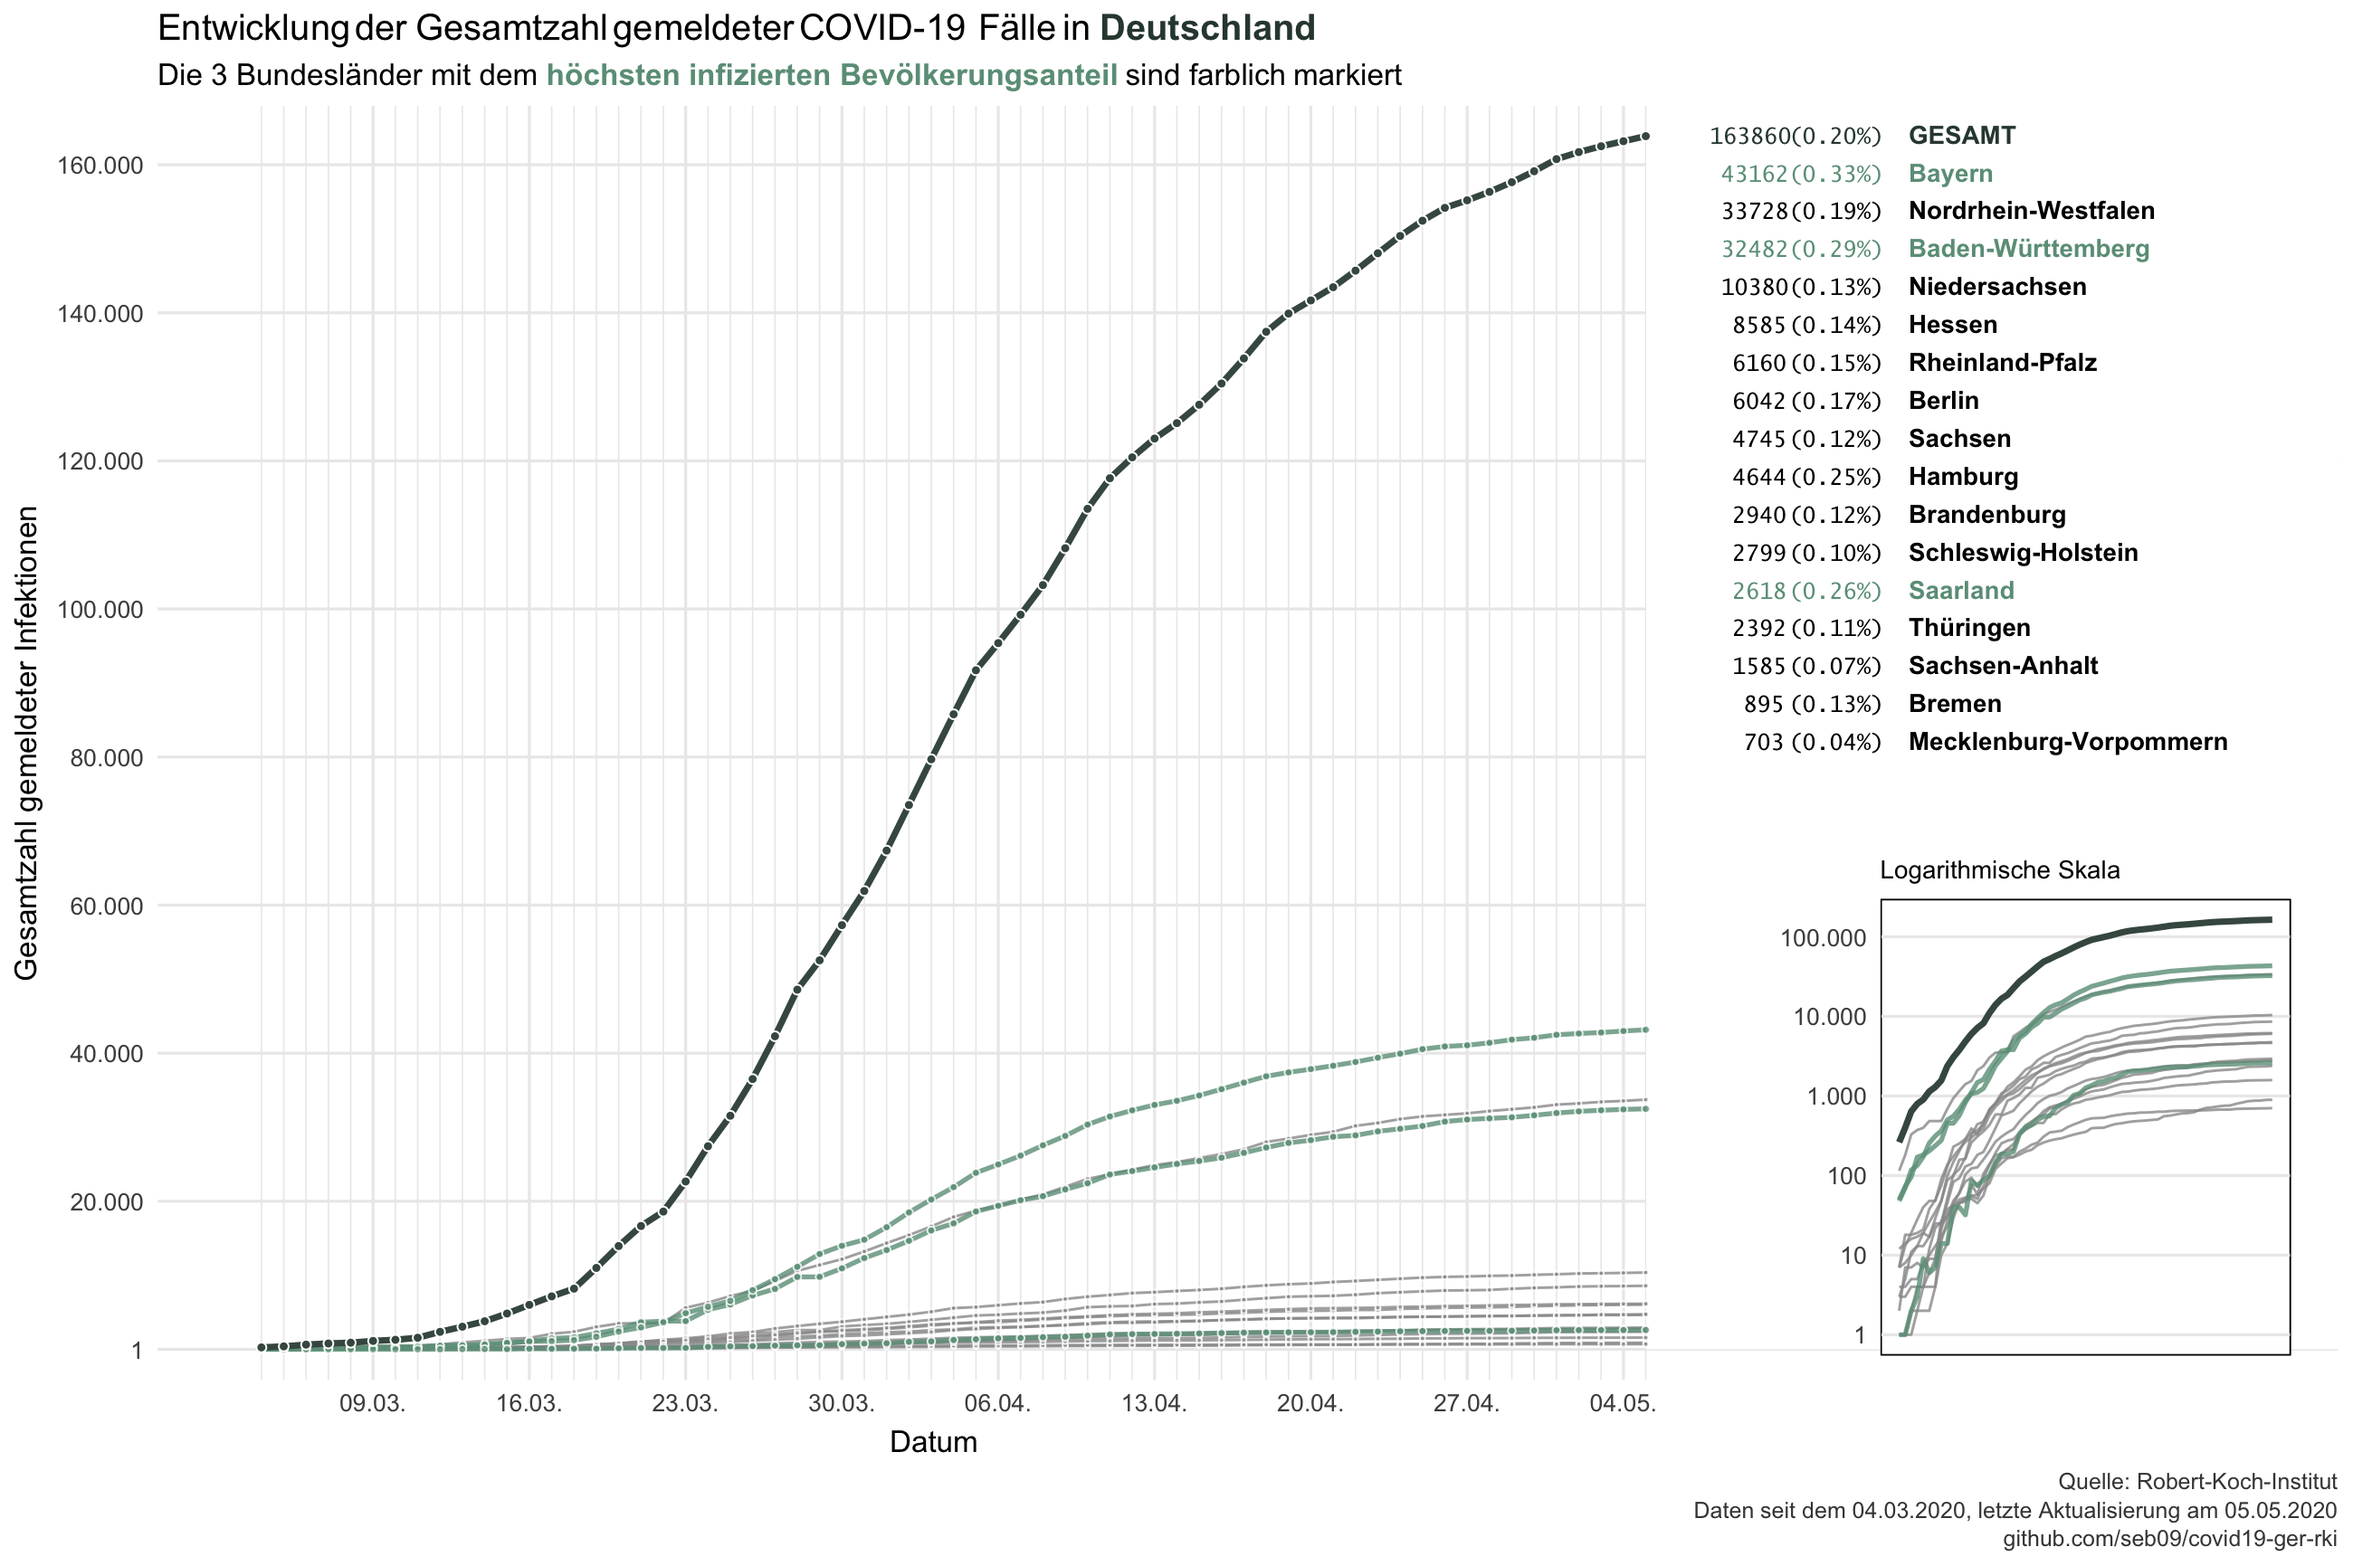
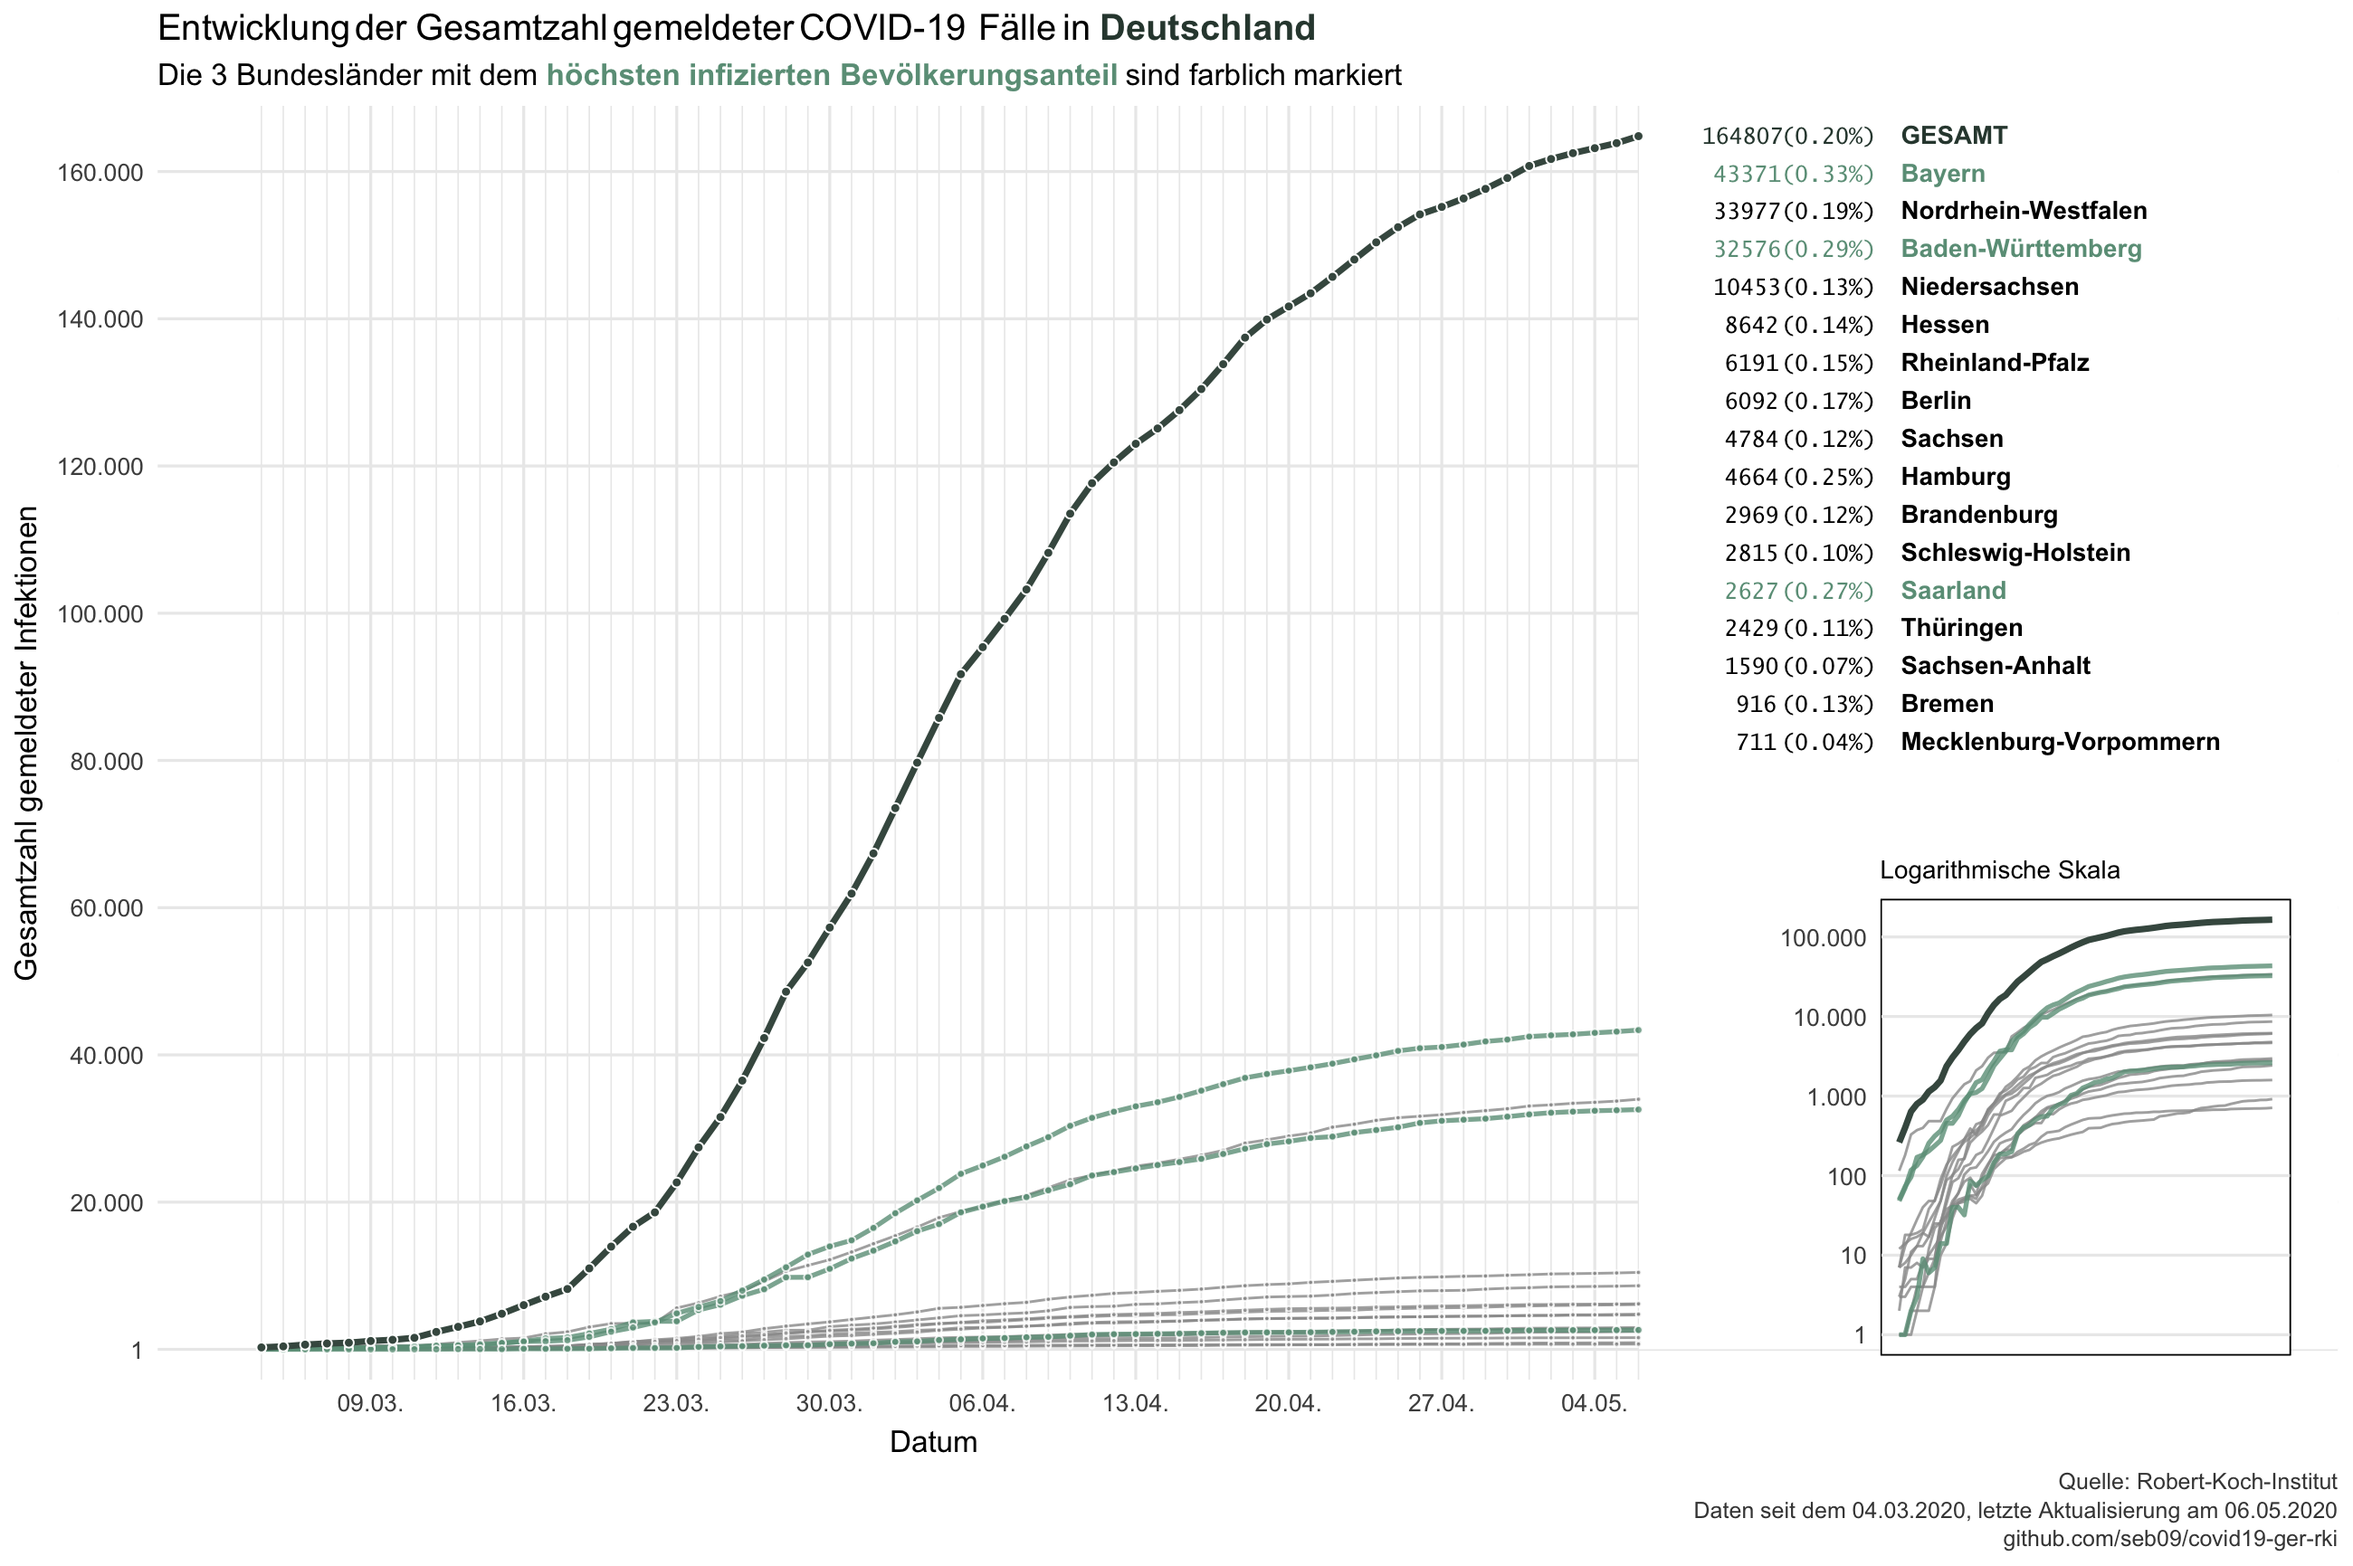
daily update 2020-05-06

diff --git a/README.md b/README.md
@@ -1,6 +1,6 @@
 Data from the Robert-Koch-Institut on COVID-19 in Germany
 ================
-Last update: 2020-05-05
+Last update: 2020-05-06
 
 This repository contains data on reported COVID-19 cases in Germany and
 its federal states that is published daily by the Robert-Koch-Institut
@@ -14,26 +14,26 @@ corona_rki %>%
   print(n = 16)
 ```
 
-    ## # A tibble: 1,002 x 6
+    ## # A tibble: 1,018 x 6
     ##    Datum      Bundesland      Fallzahl Todeszahl Fallzahl_neu Todeszahl_neu
     ##    <date>     <chr>              <dbl>     <dbl>        <dbl>         <dbl>
-    ##  1 2020-05-05 Baden-Württemb…    32482      1452           71            31
-    ##  2 2020-05-05 Bayern             43162      1949          165            23
-    ##  3 2020-05-05 Berlin              6042       154           32             0
-    ##  4 2020-05-05 Brandenburg         2940       123           26             1
-    ##  5 2020-05-05 Bremen               895        31            2             1
-    ##  6 2020-05-05 Hamburg             4644       172            8             6
-    ##  7 2020-05-05 Hessen              8585       381           36             9
-    ##  8 2020-05-05 Mecklenburg-Vo…      703        19            4             1
-    ##  9 2020-05-05 Niedersachsen      10380       463           55             7
-    ## 10 2020-05-05 Nordrhein-West…    33728      1332          168            42
-    ## 11 2020-05-05 Rheinland-Pfalz     6160       182           10             5
-    ## 12 2020-05-05 Saarland            2618       139           10             0
-    ## 13 2020-05-05 Sachsen             4745       171           43             4
-    ## 14 2020-05-05 Sachsen-Anhalt      1585        46            7             1
-    ## 15 2020-05-05 Schleswig-Hols…     2799       118           11             5
-    ## 16 2020-05-05 Thüringen           2392        99           37             3
-    ## # … with 986 more rows
+    ##  1 2020-05-06 Baden-Württemb…    32576      1481           94            29
+    ##  2 2020-05-06 Bayern             43371      2001          209            52
+    ##  3 2020-05-06 Berlin              6092       159           50             5
+    ##  4 2020-05-06 Brandenburg         2969       127           29             4
+    ##  5 2020-05-06 Bremen               916        31           21             0
+    ##  6 2020-05-06 Hamburg             4664       190           20            18
+    ##  7 2020-05-06 Hessen              8642       386           57             5
+    ##  8 2020-05-06 Mecklenburg-Vo…      711        19            8             0
+    ##  9 2020-05-06 Niedersachsen      10453       470           73             7
+    ## 10 2020-05-06 Nordrhein-West…    33977      1358          249            26
+    ## 11 2020-05-06 Rheinland-Pfalz     6191       187           31             5
+    ## 12 2020-05-06 Saarland            2627       141            9             2
+    ## 13 2020-05-06 Sachsen             4784       177           39             6
+    ## 14 2020-05-06 Sachsen-Anhalt      1590        46            5             0
+    ## 15 2020-05-06 Schleswig-Hols…     2815       119           16             1
+    ## 16 2020-05-06 Thüringen           2429       104           37             5
+    ## # … with 1,002 more rows
 
 Data is downloaded each day at 11am from the [website of the
 RKI](https://www.rki.de/DE/Content/InfAZ/N/Neuartiges_Coronavirus/Fallzahlen.html)
